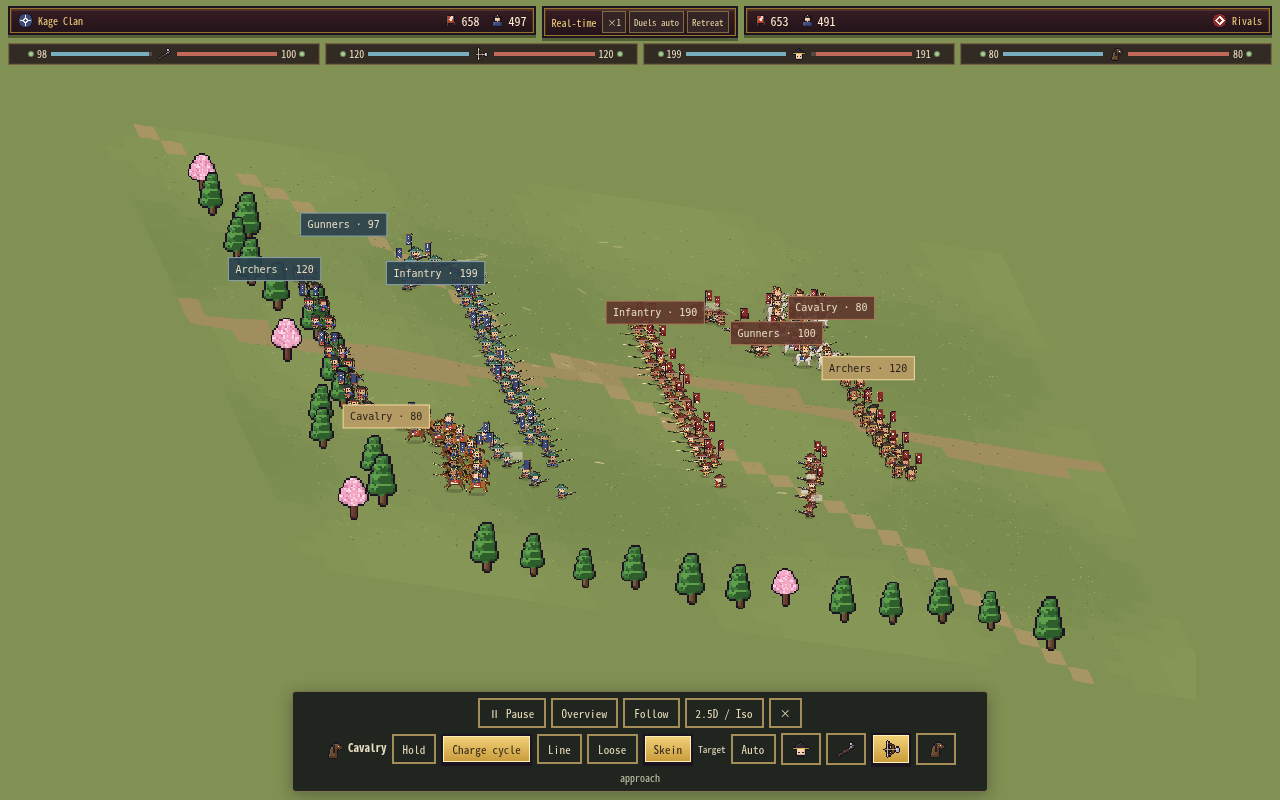
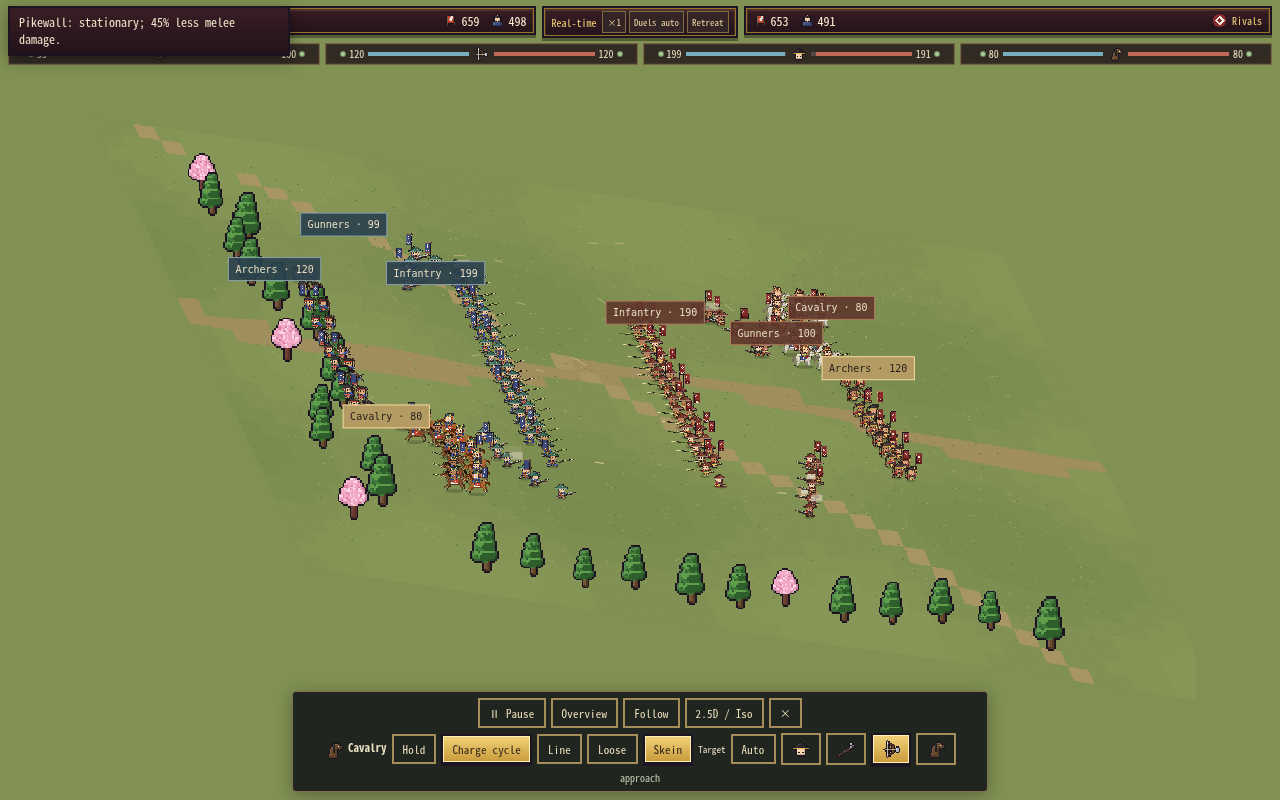
Keep grenade preludes visible across real-time battle windows

Changed region(s): [[0.0, 0.0, 0.25, 0.0938], [0.5, 0.4688, 0.5312, 0.5]]

diff --git a/index.html b/index.html
@@ -15526,9 +15526,9 @@ function rtUpdateExtras(dt){const R=BT.rt,t=R.model.time;for(const f of R.model.
  }
 }
 function rtStartWindow(){if(!rtFieldAllowed())return false;
- if(BT.rtGadgetRound!==BT.roundSeq){BT.rtGadgetRound=BT.roundSeq;const hits=[];equipmentGrenades('inf',hits,{siege:false});if(hits.length){BT.phaseName='inf';BT.pt0=BT.t;BT.script=buildPhaseScript('inf',hits);BT.next=Math.max(.6,BT.script.dur-.25);return false;}}
-const R=BT.rt||rtMakeCampaignModel();R.model.reconcile();R.windowAt=R.model.time;R.paused=false;releaseDuelCinema();BT.cine=BT.focus=null;R.view.resizeIfNeeded();BT.state='realtime';BT.phaseName='realtime';rtReleaseClassicBuffer();BT.script=null;BT.next=Infinity;$('#bcall').innerHTML='';$('#bcut').innerHTML='';$('#btac').innerHTML='';clearCamKeys();renderBHUD();rtRenderControls(true);return true;}
-function rtIsFieldView(){return !!(BT?.rt&&!siegeHold()&&BT.phaseName!=='duel'&&!BT.cine&&!BT.duelShot);}
+ if(BT.rtGadgetRound!==BT.roundSeq){BT.rtGadgetRound=BT.roundSeq;const hits=[];equipmentGrenades('inf',hits,{siege:false});if(hits.length){BT.rtGadgetAnimating=true;rtRestoreClassicBuffer();BT.phaseName='inf';BT.pt0=BT.t;BT.script=buildPhaseScript('inf',hits);BT.next=Math.max(.6,BT.script.dur-.25);return false;}}
+const R=BT.rt||rtMakeCampaignModel();BT.rtGadgetAnimating=false;R.model.reconcile();R.windowAt=R.model.time;R.paused=false;releaseDuelCinema();BT.cine=BT.focus=null;R.view.resizeIfNeeded();BT.state='realtime';BT.phaseName='realtime';rtReleaseClassicBuffer();BT.script=null;BT.next=Infinity;$('#bcall').innerHTML='';$('#bcut').innerHTML='';$('#btac').innerHTML='';clearCamKeys();renderBHUD();rtRenderControls(true);return true;}
+function rtIsFieldView(){return !!(BT?.rt&&!siegeHold()&&!BT.rtGadgetAnimating&&BT.phaseName!=='duel'&&!BT.cine&&!BT.duelShot);}
 function rtSelectFormation(id){const R=BT?.rt;if(!R)return;const f=R.model.groups[id];if(!f||f.g.troops<=0)return;
  if(f.side===0){R.selected=f;R.view.select(f);}else if(R.selected?.type==='cav'){R.model.target(R.selected.id,id);Sound.play('tap');}rtRenderControls(true);
 }

diff --git a/tools/modules/battle-realtime-campaign.js b/tools/modules/battle-realtime-campaign.js
@@ -76,9 +76,9 @@ function rtUpdateExtras(dt){const R=BT.rt,t=R.model.time;for(const f of R.model.
  }
 }
 function rtStartWindow(){if(!rtFieldAllowed())return false;
- if(BT.rtGadgetRound!==BT.roundSeq){BT.rtGadgetRound=BT.roundSeq;const hits=[];equipmentGrenades('inf',hits,{siege:false});if(hits.length){BT.phaseName='inf';BT.pt0=BT.t;BT.script=buildPhaseScript('inf',hits);BT.next=Math.max(.6,BT.script.dur-.25);return false;}}
-const R=BT.rt||rtMakeCampaignModel();R.model.reconcile();R.windowAt=R.model.time;R.paused=false;releaseDuelCinema();BT.cine=BT.focus=null;R.view.resizeIfNeeded();BT.state='realtime';BT.phaseName='realtime';rtReleaseClassicBuffer();BT.script=null;BT.next=Infinity;$('#bcall').innerHTML='';$('#bcut').innerHTML='';$('#btac').innerHTML='';clearCamKeys();renderBHUD();rtRenderControls(true);return true;}
-function rtIsFieldView(){return !!(BT?.rt&&!siegeHold()&&BT.phaseName!=='duel'&&!BT.cine&&!BT.duelShot);}
+ if(BT.rtGadgetRound!==BT.roundSeq){BT.rtGadgetRound=BT.roundSeq;const hits=[];equipmentGrenades('inf',hits,{siege:false});if(hits.length){BT.rtGadgetAnimating=true;rtRestoreClassicBuffer();BT.phaseName='inf';BT.pt0=BT.t;BT.script=buildPhaseScript('inf',hits);BT.next=Math.max(.6,BT.script.dur-.25);return false;}}
+const R=BT.rt||rtMakeCampaignModel();BT.rtGadgetAnimating=false;R.model.reconcile();R.windowAt=R.model.time;R.paused=false;releaseDuelCinema();BT.cine=BT.focus=null;R.view.resizeIfNeeded();BT.state='realtime';BT.phaseName='realtime';rtReleaseClassicBuffer();BT.script=null;BT.next=Infinity;$('#bcall').innerHTML='';$('#bcut').innerHTML='';$('#btac').innerHTML='';clearCamKeys();renderBHUD();rtRenderControls(true);return true;}
+function rtIsFieldView(){return !!(BT?.rt&&!siegeHold()&&!BT.rtGadgetAnimating&&BT.phaseName!=='duel'&&!BT.cine&&!BT.duelShot);}
 function rtSelectFormation(id){const R=BT?.rt;if(!R)return;const f=R.model.groups[id];if(!f||f.g.troops<=0)return;
  if(f.side===0){R.selected=f;R.view.select(f);}else if(R.selected?.type==='cav'){R.model.target(R.selected.id,id);Sound.play('tap');}rtRenderControls(true);
 }
